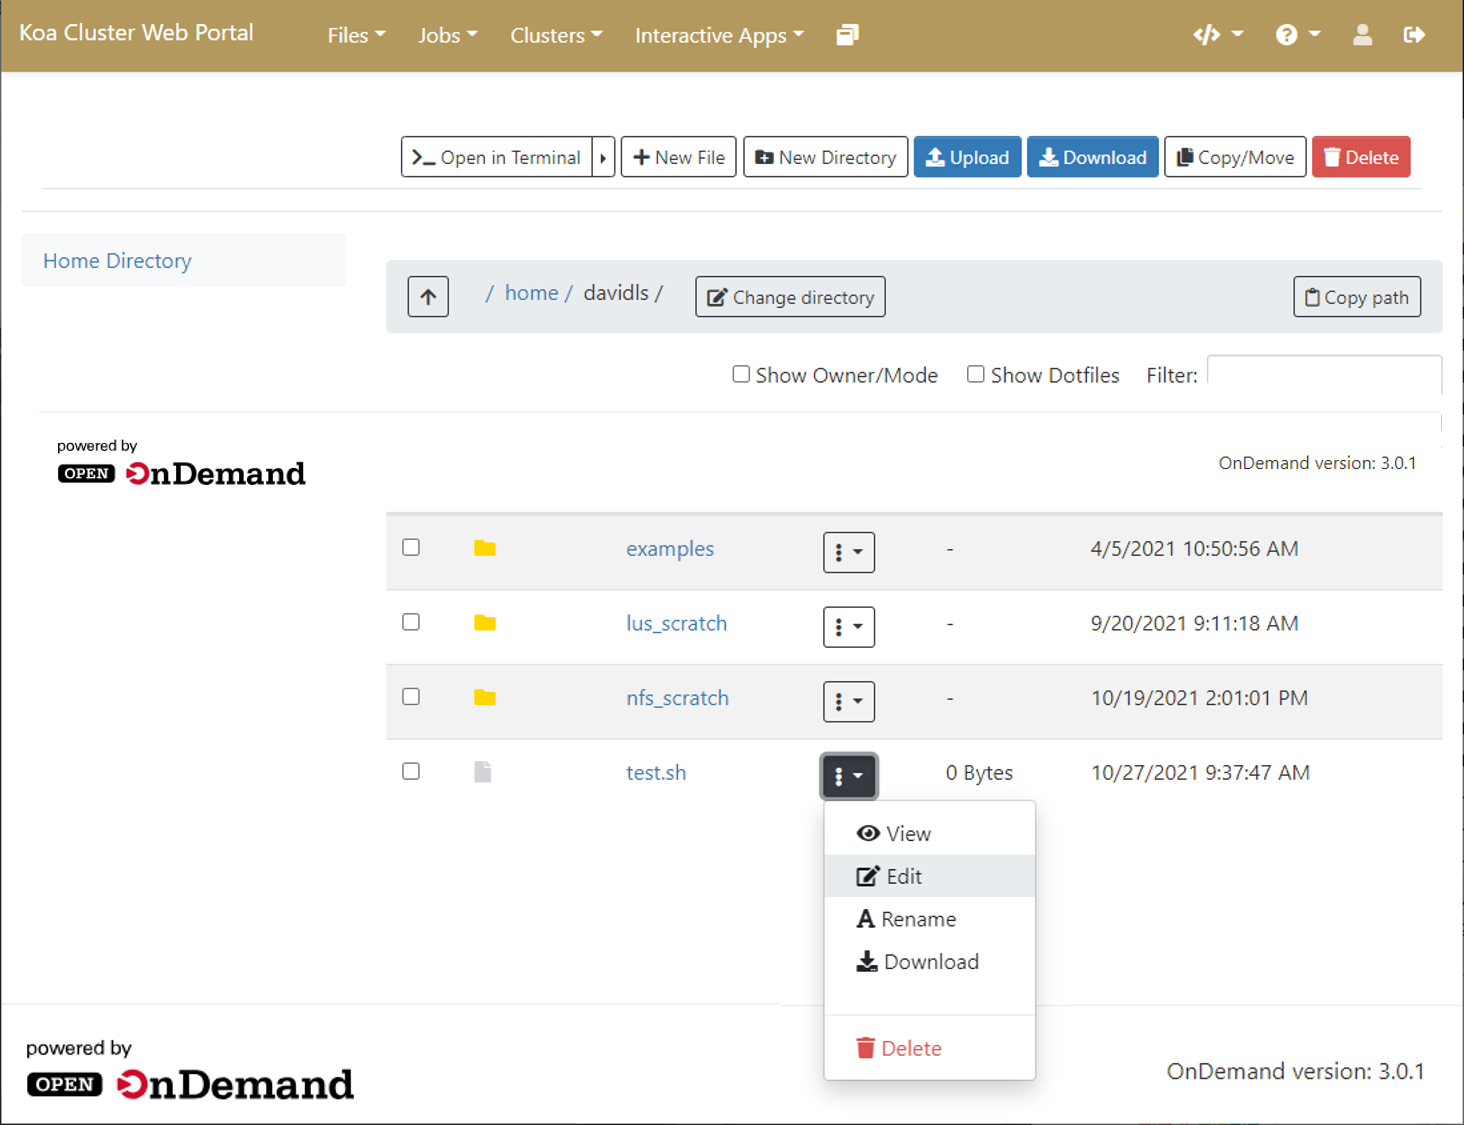
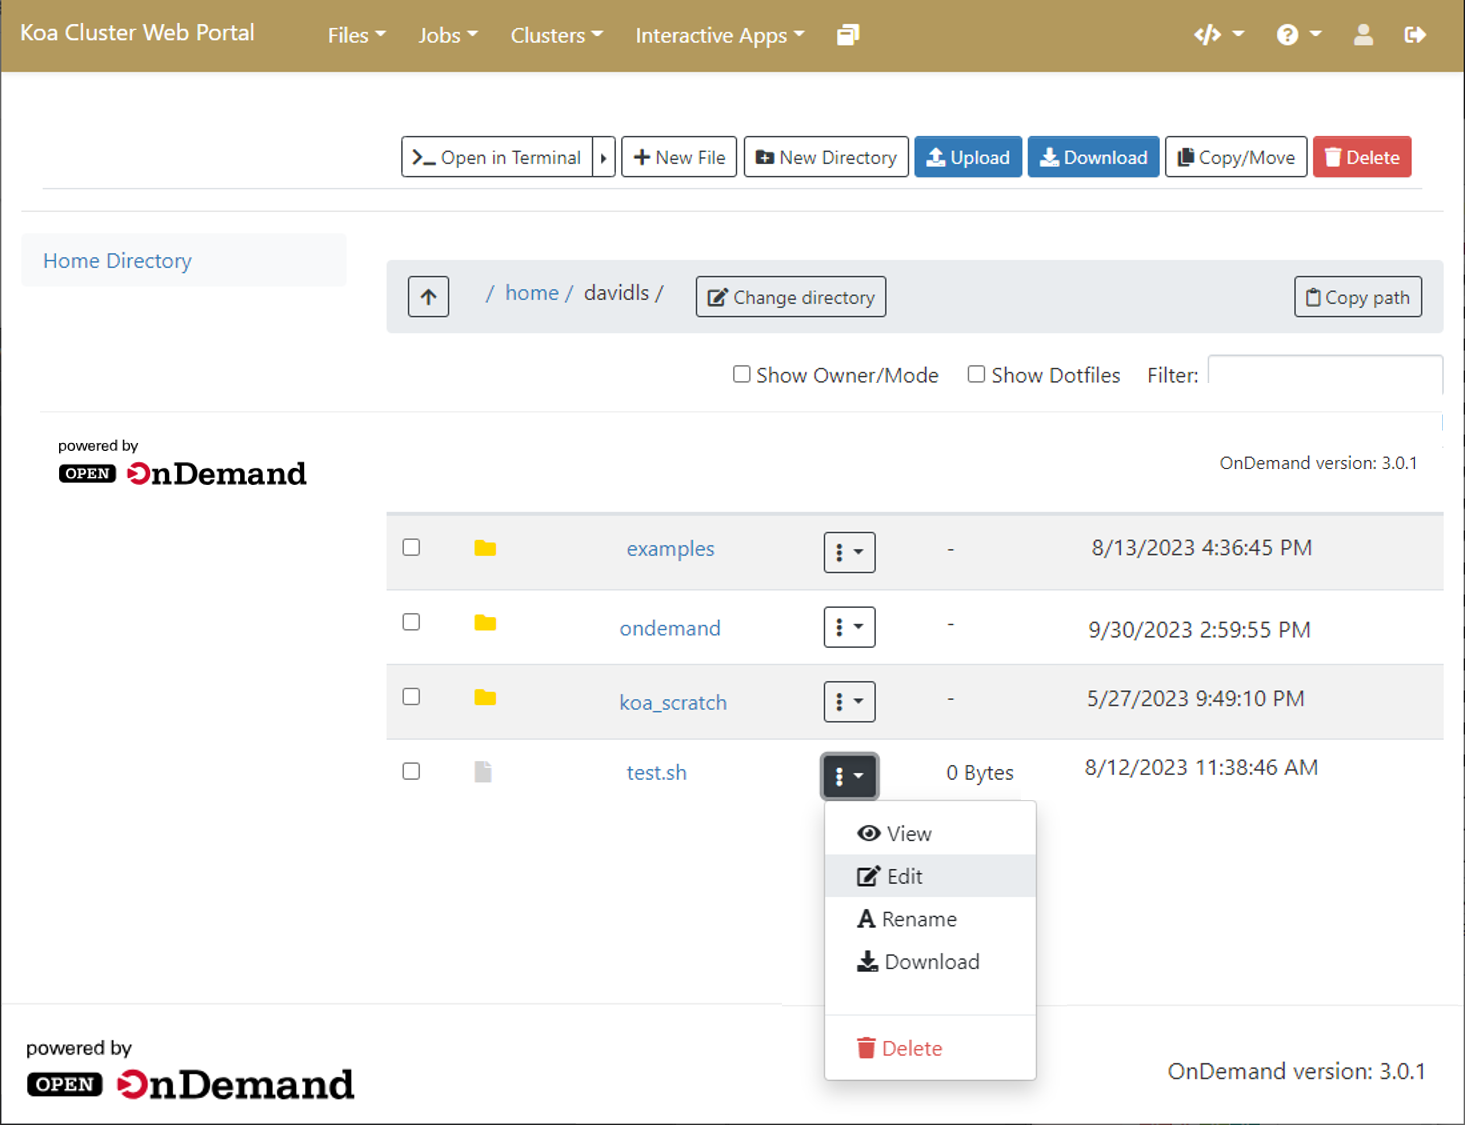
updating to koa in jupyter page

diff --git a/morea/hpc/experience-hpc-jupyter.md b/morea/hpc/experience-hpc-jupyter.md
@@ -66,7 +66,7 @@ Once the interactive session is running, connect to the jupyter session by click
 
 <details>
   <summary>Solution</summary>
-{% include figure.html url="" max-width="100%" file="/morea/hpc/fig/ood_job.png" alt="Connect to cluster" caption="" %}
+{% include figure.html url="" max-width="100%" file="/morea/hpc/fig/koa_ood_job.png" alt="Connect to cluster" caption="" %}
 </details>
 </div>
 
